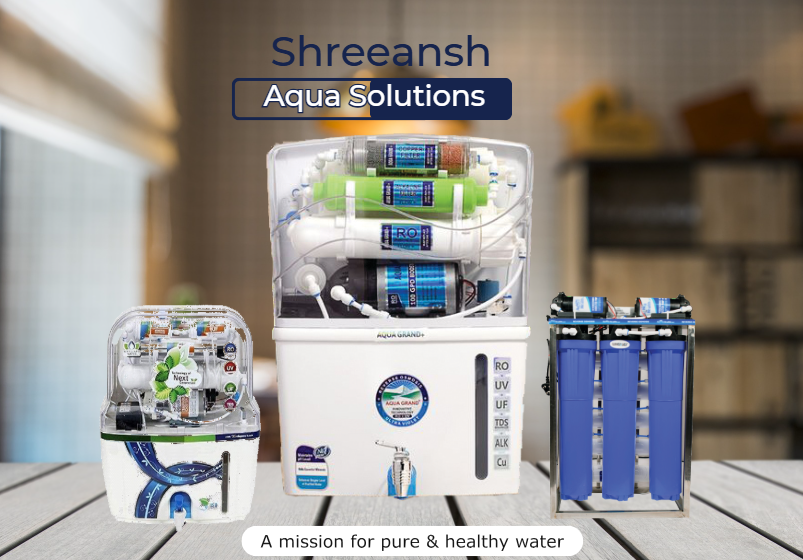
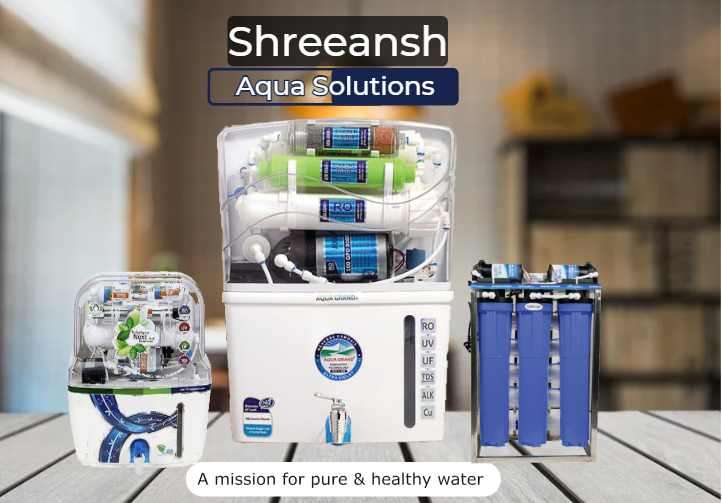
added front page

diff --git a/src/components/demo/AboutServices.jsx b/src/components/demo/AboutServices.jsx
@@ -9,7 +9,8 @@ const AboutServices = () => {
           Our Services
         </h2>
         <p className="text-gray-600 text-lg">
-          We provide reliable and professional services to ensure the best performance of your water purifiers.
+          We provide reliable and professional services to ensure the best
+          performance of your water purifiers.
         </p>
       </div>
 
@@ -55,15 +56,42 @@ const AboutServices = () => {
         ))}
       </div>
 
+      <div className="bg-gray-100 mt-12 py-8 px-6 rounded-lg shadow-lg max-w-5xl mx-auto">
+        <h3 className="text-3xl font-bold text-center text-green-700 mb-6">
+          Areas We Serve
+        </h3>
+        <p className="text-gray-800 text-xl leading-relaxed text-justify">
+          We provide water purification solutions in Dehradun and nearby
+          locations, including
+          <span className="font-semibold">
+            {" "}
+            Rajpur Road, Sahastradhara Road, Dalanwala, Prem Nagar, Vikasnagar,
+            Rishikesh, Haridwar, and Mussoorie.
+          </span>
+        </p>
+      </div>
+
+      <div className="bg-gray-100 mt-12 py-8 px-6 rounded-lg shadow-lg max-w-5xl mx-auto">
+        <h3 className="text-3xl font-bold text-center text-green-700 mb-6">
+          Our Commitment to Pure Water
+        </h3>
+        <p className="text-gray-800 text-xl leading-relaxed text-justify">
+          At Shreeansh Aqua Solutions, we believe that clean and safe drinking
+          water is a necessity. That’s why we bring the best RO systems, water
+          softeners, and purification plants to ensure that your water is 100%
+          safe, mineral-rich, and contaminant-free
+        </p>
+      </div>
+
       {/* Importance of RO Service */}
       <div className="bg-gray-100 mt-12 py-8 px-6 rounded-lg shadow-lg max-w-5xl mx-auto">
-        <h3 className="text-3xl font-semibold text-center text-green-700 mb-6">
+        <h3 className="text-2xl font-semibold text-center text-green-700 mb-6">
           Why Regular RO Service is Important?
         </h3>
         <p className="text-gray-800 text-lg leading-relaxed text-justify">
           RO water purifiers work continuously to remove impurities and deliver
-          safe, healthy drinking water. Over time, filters and membranes can
-          get clogged, affecting water quality. Regular service ensures:
+          safe, healthy drinking water. Over time, filters and membranes can get
+          clogged, affecting water quality. Regular service ensures:
         </p>
         <ul className="list-disc list-inside space-y-4 mt-4 text-gray-800">
           <li>Proper removal of contaminants and impurities</li>

diff --git a/src/components/demo/HomeNewBanner.jsx b/src/components/demo/HomeNewBanner.jsx
@@ -1,0 +1,62 @@
+import { PhoneCallIcon } from "lucide-react";
+import React from "react";
+
+const HomeNewBanner = () => {
+  return (
+    <div className="relative w-full h-[600px] md:h-[800px]">
+      {/* Background Image */}
+      <div
+        className="absolute inset-0 bg-cover bg-center bg-no-repeat"
+        style={{ backgroundImage: "url('/Home/bg.jpg')" }} // Replace with your image path
+      ></div>
+
+      {/* Overlay (Optional: To Darken the Image) */}
+      <div className="absolute inset-0 bg-black opacity-40"></div>
+
+      {/* Content Positioned to Top-Left */}
+      <div className="absolute top-1 left-2 md:top-10 md:left-10 z-10 text-white">
+        <h1 className="text-3xl md:text-5xl font-bold">ROHUB</h1>
+        <p className="text-xl md:text-2xl mt-2 font-bold font-serif bg-slate-800">
+          Shreeansh Aqua Solutions
+        </p>
+      </div>
+
+      {/*company content */}
+
+      <div className="hidden md:block absolute top-10 left-2 md:top-44 md:left-10 z-10 text-white">
+        <h1 className="text-3xl md:text-5xl font-bold text-slate-200">Innovative Water Treatment <br/>Solutions For You</h1>
+        <p className="text-xl md:text-2xl mt-10 font-bold font-serif bg-slate-800 p-4 text-justify max-w-lg">
+        Founded in 2007, we offer comprehensive water purification solutions—from concept through commissioning and maintenance— ensuring unmatched quality, efficiency, and customer satisfaction
+        </p>
+      </div>
+
+      {/*img */}
+      <div className="absolute left-auto top-28 md:left-auto  md:right-60 md:top-8 m-2 border-4 md:border-8 border-gray-300 rounded-lg shadow-lg">
+        <img
+          src="/Home/main.png"
+          className="h-auto md:h-[700px] border border-gray-400 rounded-lg"
+        />
+      </div>
+
+      <div className="absolute bottom-2 left-2 z-10 text-white bg-black bg-opacity-50 px-4 py-2 rounded-lg shadow-lg">
+        {/* Phone Icon & Call Us in Same Row */}
+        <div className="flex items-center gap-2 md:gap-6">
+          <PhoneCallIcon
+            className="text-yellow-400 text-3xl md:text-4xl"
+            size={30}
+          />
+          <h1 className="text-2xl md:text-5xl font-bold text-yellow-400">
+            Call Us
+          </h1>
+        </div>
+
+        {/* Phone Numbers */}
+        <p className="text-sm md:text-xl mt-1 font-bold font-serif text-white">
+          +91 7579008065, +91 8171061278
+        </p>
+      </div>
+    </div>
+  );
+};
+
+export default HomeNewBanner;

diff --git a/src/components/demo/AboutWhyUs.jsx b/src/components/demo/AboutWhyUs.jsx
@@ -15,18 +15,21 @@ const AboutWhyUs = () => {
         }`}
       >
         {/* Text Section */}
-        <div className="text-gray-800 md:pl-16">
+        <div className="text-gray-800 md:pl-16 pt-6">
           <h2 className="text-3xl md:text-4xl font-bold mb-6 text-[#0f1222] text-center">
           Why Choose Shreeansh Aqua Solutions?
           </h2>
           
           <ul className="list-disc list-inside space-y-2 text-base md:text-lg">
             {[
-              "Experienced Professionals: Our team consists of trained and certified service engineers dedicated to providing 100% satisfactory services.",
-              " Affordable Services: We offer budget-friendly pricing for all our services without compromising on quality.",
-              "Wide Range of Solutions: From RO installation, repair, maintenance, and AMC services, we cover it all under one roof.",
+              "15+ Years of Excellence: Our team consists of trained and certified service engineers dedicated to providing 100% satisfactory services.",
+              "Affordable Services: We offer budget-friendly pricing for all our services without compromising on quality.",
+              "1500+ Satisfied Customers: Trusted by homes, offices, industries, government sectors, hospitals, cafes, hostels, and schools.",
+              "Wide Range of Complete Water Solutions: From RO installation, repair, maintenance, and AMC services, we cover it all under one roof.",
               "We ensure quick response and doorstep service to keep your purifier running smoothly.",
               "Customer Satisfaction: Your satisfaction is our top priority. We focus on long-term relationships with our clients.",
+              "Top Brands & Advanced Technology: We deal in leading brands of reverse osmosis systems, ensuring pure, safe, and mineral-rich water.",
+              "End-to-End Services:  We offer installation, repair, maintenance, and AMC services for RO water purifiers and water softeners."
             ].map((item, index) => (
               <li key={index} className="animate-fade-in-up text-justify">
                 {item}

diff --git a/src/components/demo/Header.jsx b/src/components/demo/Header.jsx
@@ -1,6 +1,7 @@
 import { Avatar, AvatarFallback, AvatarImage } from "@/components/ui/avatar";
 import React, { useState, useRef, useEffect } from "react";
 import { Link } from "react-router-dom";
+import CustomLink from "./CustomLink";
 const Header = () => {
   const [isMenuOpen, setMenuOpen] = useState(false);
   const [isChatOpen, setIsChatOpen] = useState(false);
@@ -109,19 +110,20 @@ const Header = () => {
               </li>
               <li>
                 <Link
-                  to="/home"
+                  to="/products"
                   className="block py-2 px-3 text-[#2C3E50] rounded hover:bg-[#FFD700] md:hover:bg-transparent md:border-0 md:hover:text-[#32CD32] md:p-0 transition duration-300 md:pt-3"
                 >
                   Products
                 </Link>
               </li>
               <li>
-                <Link
-                  to="/about"
+              <Link
+                  to="/faqs"
+                  
                   className="block py-2 px-3 text-[#2C3E50] rounded hover:bg-[#FFD700] md:hover:bg-transparent md:border-0 md:hover:text-[#32CD32] md:p-0 transition duration-300 md:pt-3"
                 >
                   FAQs
-                </Link>
+                  </Link>
               </li>
               <li>
                 <Link
@@ -132,12 +134,13 @@ const Header = () => {
                 </Link>
               </li>
               <li>
-                <Link
-                  to="/home"
-                  className="block py-2 px-3 text-[#2C3E50] rounded hover:bg-[#FFD700] md:hover:bg-transparent md:border-0 md:hover:text-[#32CD32] md:p-0 transition duration-300 md:pt-3"
+                <CustomLink
+                  to="/"
+                  scrollTo="reviews"
+                  className="block py-2 px-3 text-[#2C3E50] rounded hover:bg-[#FFD700] md:hover:bg-transparent md:border-0 md:hover:text-[#32CD32] md:p-0 transition duration-300 md:pt-3  cursor-pointer"
                 >
                   Reviews
-                </Link>
+                </CustomLink>
               </li>
               <li>
                 <Link

diff --git a/src/components/demo/CustomLink.jsx b/src/components/demo/CustomLink.jsx
@@ -1,0 +1,26 @@
+import React from "react";
+import { Link as ScrollLink } from "react-scroll"; // For smooth scrolling
+import { Link as RouterLink, useLocation } from "react-router-dom"; // For navigation
+
+const CustomLink = ({ to, scrollTo, children }) => {
+  const location = useLocation();
+
+  return location.pathname === "/" ? (
+    // If on home page, use react-scroll for smooth scrolling
+    <ScrollLink
+      to={scrollTo}
+      smooth={true}
+      
+      className="block py-2 px-3 text-[#2C3E50] rounded hover:bg-[#FFD700] md:hover:bg-transparent md:border-0 md:hover:text-[#32CD32] md:p-0 transition duration-300 md:pt-3 cursor-pointer !important"
+    >
+      {children}
+    </ScrollLink>
+  ) : (
+    // If on another page, use react-router-dom Link to navigate
+    <RouterLink to="/" className="block py-2 px-3 text-[#2C3E50] rounded hover:bg-[#FFD700] md:hover:bg-transparent md:border-0 md:hover:text-[#32CD32] md:p-0 transition duration-300 md:pt-3 cursor-pointer !important">
+      {children}
+    </RouterLink>
+  );
+};
+
+export default CustomLink;

diff --git a/src/components/demo/GoogleReview.jsx b/src/components/demo/GoogleReview.jsx
@@ -10,6 +10,7 @@ import img1 from "/google/pic-1.png";
 import img2 from "/google/pic-2.png";
 import img3 from "/google/pic-1.png";
 import img4 from "/google/pic-1.png";
+import { Element } from "react-scroll";
 
 const GoogleReview = () => {
   const reviews = [
@@ -20,7 +21,7 @@ const GoogleReview = () => {
   ];
 
   return (
-    <div className="bg-gradient-to-r from-[#DCEFFD] via-[#FFFFFF] to-[#FDE1E1] py-10 ">
+    <Element name="reviews" className="bg-gradient-to-r from-[#DCEFFD] via-[#FFFFFF] to-[#FDE1E1] py-10 ">
       <div className="text-center text-3xl font-bold text-[#1B1F3B] mb-6">
         Reviews By Our Satisfied Clients
       </div>
@@ -64,7 +65,7 @@ const GoogleReview = () => {
           </CarouselNext>
         </Carousel>
       </div>
-    </div>
+      </Element>
   );
 };
 

diff --git a/src/App.jsx b/src/App.jsx
@@ -23,6 +23,7 @@ import WaterSoftener from "./components/demo/WaterSoftener";
 import WhatsAppWidget from "./components/demo/WhatsAppWidget";
 import PhoneIcon from "./components/demo/PhoneIcon";
 import ServicesDetailsPage from "./pages/ServicesDetailsPage";
+import FandQ from "./components/demo/FandQ";
 
 function App() {
   return (
@@ -35,6 +36,8 @@ function App() {
         <Route path="/contact" element={<ContactUs />} />
         <Route path="/products" element={<Services />} />
         <Route path="/services" element={<ServicesDetailsPage />} />
+        <Route path="/faqs" element={<FandQ />} />
+        
 
         
         <Route path="/water-purifier" element={<WaterPurifier />} />

diff --git a/src/components/demo/FandQ.jsx b/src/components/demo/FandQ.jsx
@@ -1,4 +1,5 @@
 import React, { useState } from "react";
+import { Element } from "react-scroll";
 
 const FandQ = () => {
   const faqs = [
@@ -251,7 +252,7 @@ const FandQ = () => {
   };
 
   return (
-    <div className="bg-gray-50 py-10 px-6">
+    <Element name="faqs" className="bg-gray-50 py-10 px-6">
       <div className="max-w-7xl mx-auto">
         {/* Section Header */}
         <h3 className="text-3xl md:text-4xl font-bold text-gray-800 mb-8 text-center">
@@ -285,7 +286,7 @@ const FandQ = () => {
           ))}
         </div>
       </div>
-    </div>
+    </Element>
   );
 };
 

diff --git a/src/pages/Home.jsx b/src/pages/Home.jsx
@@ -11,14 +11,16 @@ import TrustedWaterSection from "@/components/demo/TrustedWaterSection";
 import WhyUs from "@/components/demo/WhyUs";
 import ReactSlikSlider from "../components/demo/ReactSlikSlider";
 import LeftRightBox from "@/components/demo/LeftRightBox";
+import HomeNewBanner from "@/components/demo/HomeNewBanner";
 
 const Home = () => {
   return (
     <>
       <TopSection />
       {/* <SectionHero /> */}
-      <ReactSlikSlider />
+      {/* <ReactSlikSlider /> */}
       {/* <HomeBanner /> */}
+      <HomeNewBanner />
       <LeftRightBox />
 
       <TrustedWaterSection />

diff --git a/src/pages/ServicesDetailsPage.jsx b/src/pages/ServicesDetailsPage.jsx
@@ -10,6 +10,7 @@ const ServicesDetailsPage = () => {
 
   return <>
     <ServicesDetails />
+    <RoServiceBrands />
     <div className="bg-gradient-to-r from-blue-500 via-purple-600 to-pink-500 shadow-2xl rounded-lg p-8 md:p-12 lg:p-16 space-y-8 text-center text-white">
   {/* Heading */}
   <h2 className="text-3xl sm:text-4xl font-extrabold tracking-wide">
@@ -56,7 +57,7 @@ const ServicesDetailsPage = () => {
 </div>
 
 
-    <RoServiceBrands />
+    
   </>;
 };
 

diff --git a/src/components/demo/TrustedWaterSection.jsx b/src/components/demo/TrustedWaterSection.jsx
@@ -56,9 +56,9 @@ const TrustedWaterSection = () => {
             <p className="text-gray-700 mt-3">{feature.description}</p>
 
             {/* Read More Link */}
-            <div className="mt-5">
+            <div className="mt-5" >
               <a
-                href="#"
+                href="/services"
                 className="text-blue-600 font-medium hover:text-blue-700 transition"
               >
                 Read More →

diff --git a/src/pages/AboutUs.jsx b/src/pages/AboutUs.jsx
@@ -9,9 +9,10 @@ const AboutUs = () => {
     <>
       <AboutTopBanner />
       <AboutWhyUs />
-      <OurTeam />
-      <AboutClient /> 
       <AboutServices />
+      {/* <OurTeam /> */}
+      <AboutClient /> 
+      
       <FandQ />
     </>
   );
